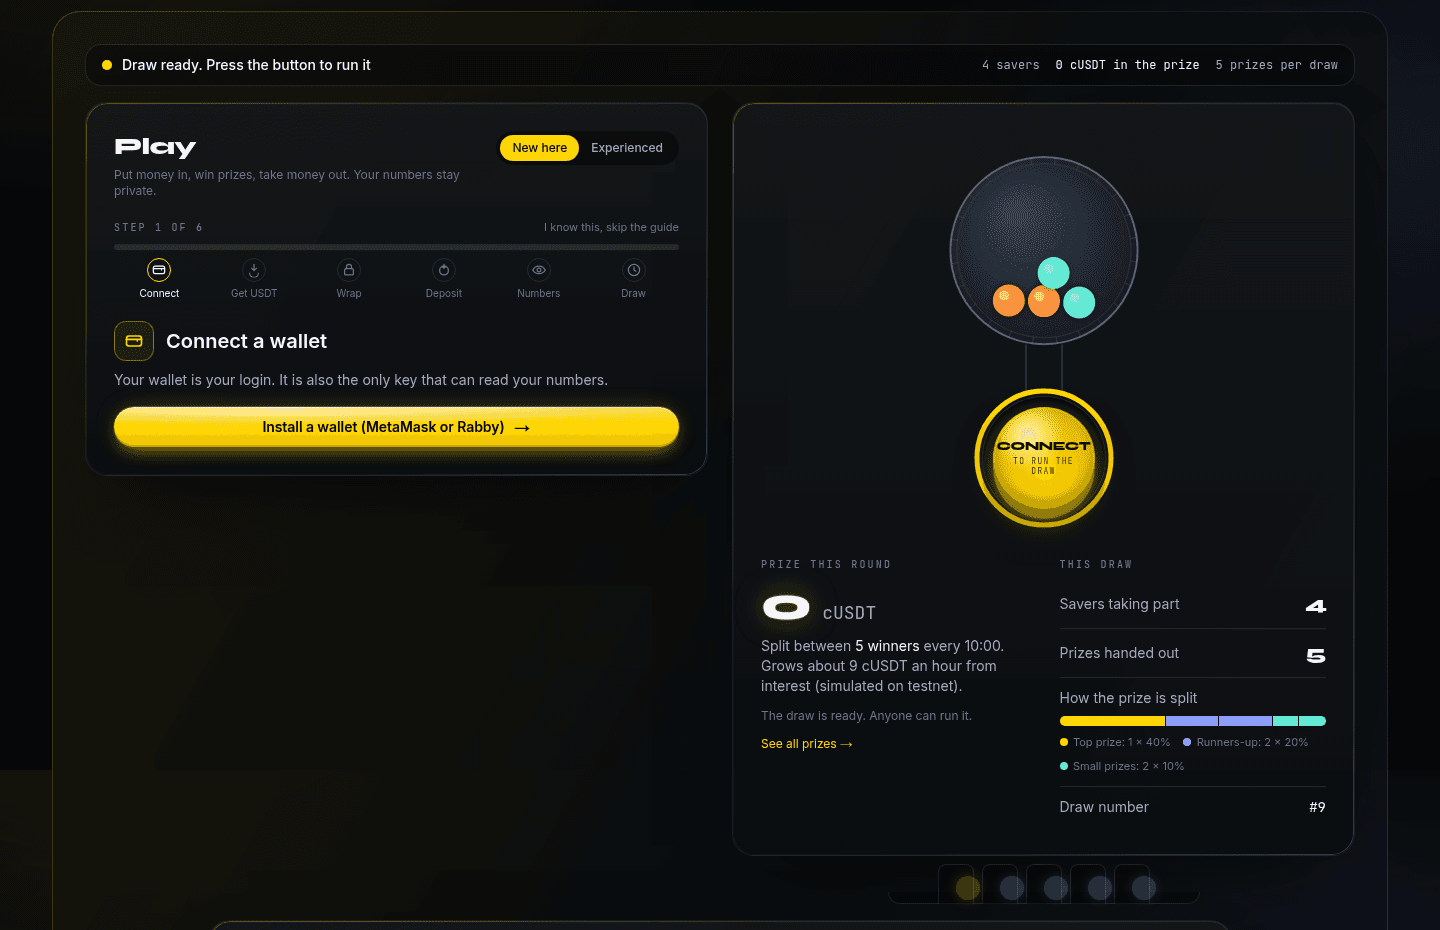
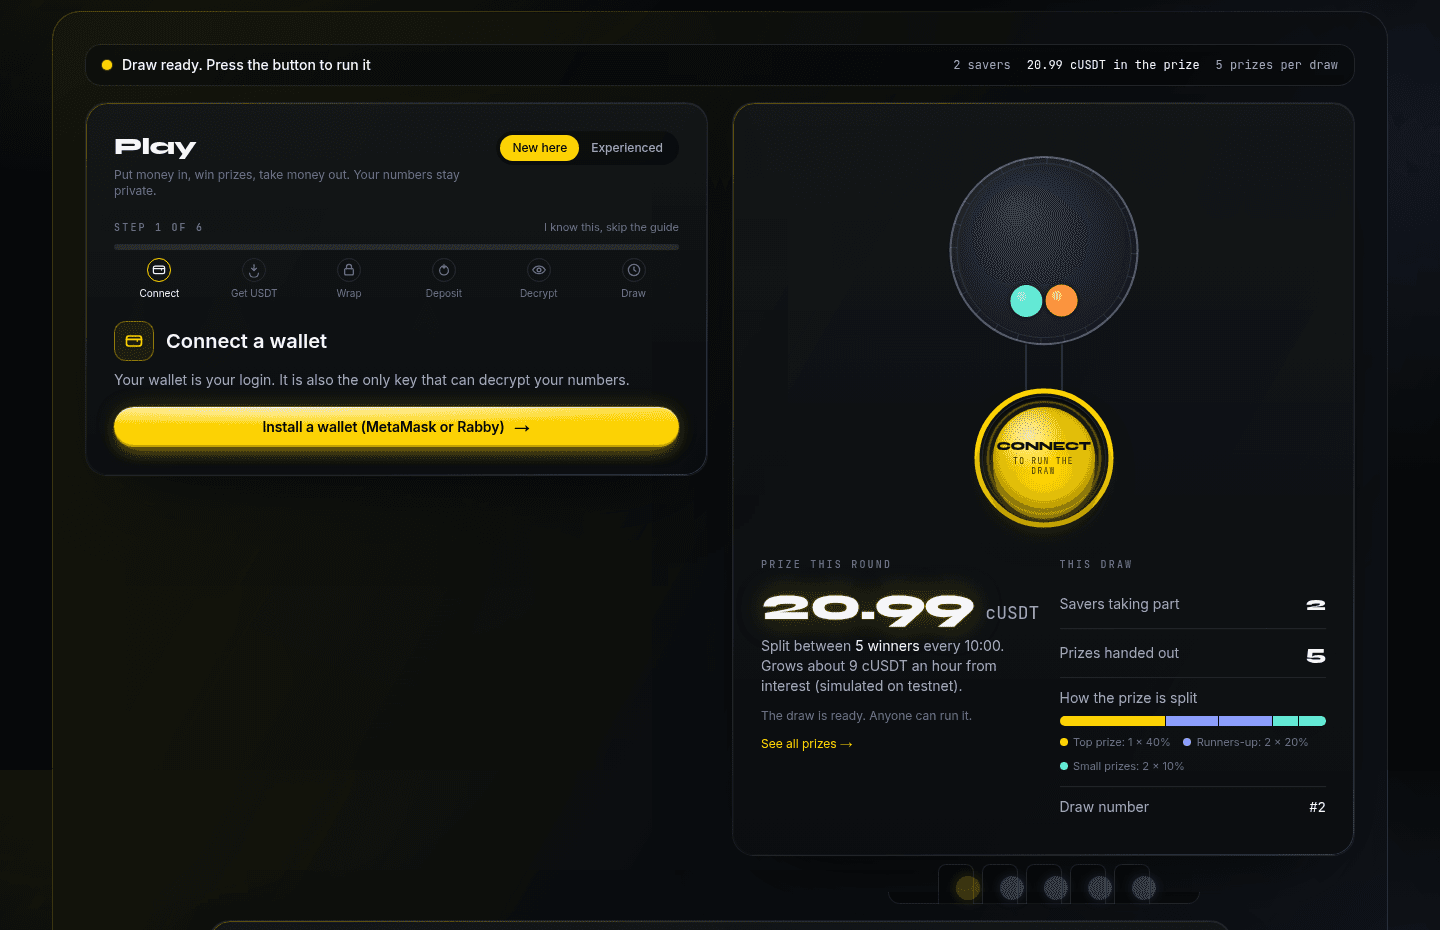
Storyboard and screenshots refreshed for the current pool state

diff --git a/docs/video-storyboard.md b/docs/video-storyboard.md
@@ -5,9 +5,9 @@ Runs 2:58, under the bounty's 3:00 cap. Real person on camera at the start and e
 ## Before you press record
 
 - Browser at 1440 × 900, bookmarks bar hidden, dark theme.
-- One wallet only: the owner `0xB3Bf…7A58`. The pool is brand new (`0x2E91…DeF5`); nobody else is in it.
-- **Prep round first, about 12 minutes:** connect, press Start over in the guide, do Get USDT, Wrap, Put in 300, Decrypt my numbers. When the countdown hits zero, hold the button once (draw #1, you win it all). Do not collect. Press Start over again.
-- Money put in during a round counts from the next round, so the on-camera deposit is not in draw #2. Your prep deposit is. The prize from draw #1 is the guaranteed claim.
+- Rabby on your wallet `0x329e…9B41`. Two savers are in the pool (`0x2E91…DeF5`): you and the deployer `0xB3Bf…7A58`.
+- **Prep is done.** Draw #1 has run and your wallet won it. Leave that prize uncollected until the claim scene. Press Start over in the guide right before recording.
+- Money put in during a round counts from the next round, so the on-camera 300 is not in draw #2. Your earlier deposit is. The draw #1 prize is the guaranteed claim.
 - Start the screen part when the countdown reads about 1:20. The first scenes take ~75 s and land you at the button as it turns yellow. If it already reads RUN DRAW, that is fine too.
 - Tabs open: the app, the pool on Etherscan, the Sourcify page (optional).
 - Keep the whole cut under 3:00 including the camera parts. No speed-ups.
@@ -49,7 +49,7 @@ Runs 2:58, under the bounty's 3:00 cap. Real person on camera at the start and e
    *On screen:* Header shows your identicon. The wizard moves to Step 2.
 2. Press **Get 1,000 test USDT**. Confirm.
    *On screen:* "Minting 1,000 test USDT from Zama's official mock…", then the tick. Step 3 opens by itself.
-3. Press **Wrap 1,000 USDT into cUSDT**. Confirm the approval, then the wrap.
+3. Press **Wrap … USDT into cUSDT**. The button wraps your whole USDT balance. Confirm the approval, then the wrap.
    *On screen:* "Wrapping into cUSDT on Zama FHEVM, your balance becomes encrypted…", then Step 4.
 
 **Say:**
@@ -67,11 +67,11 @@ Runs 2:58, under the bounty's 3:00 cap. Real person on camera at the start and e
 1. Step 4: type **300**, press **Put in 300 cUSDT**. Confirm the one-time approval, then the deposit.
    *On screen:* "Encrypting with Zama's FHE key…", "Sending your encrypted deposit to the pool on Zama FHEVM…", then "Done. Your money is in the pool, scrambled." Coins fly into the sphere. Step 5.
 2. Step 5: press **Decrypt my numbers**. Sign the one message in Rabby.
-   *On screen:* The asterisks unscramble everywhere on the page: savings 600 (300 from the prep round plus this 300). Point at the savings figure.
+   *On screen:* The asterisks unscramble everywhere on the page: your savings (earlier deposit plus this 300), wallet cUSDT, and prizes to collect (the draw #1 prize). Point at the savings figure.
 
 **Say:**
 
-> I put in 300. It's encrypted in my browser before it leaves, so the transaction carries a ciphertext, not a number. To read my pool balance I sign one message. Zama's relayer checks my wallet is allowed, then hands me the figure: 600 in the pool. Nothing on the public chain carries an amount.
+> I put in 300. It's encrypted in my browser before it leaves, so the transaction carries a ciphertext, not a number. To read my pool balance I sign one message. Zama's relayer checks my wallet is allowed, then hands me the figure. There it is. Nothing on the public chain carries an amount.
 
 ---
 
@@ -84,7 +84,7 @@ Runs 2:58, under the bounty's 3:00 cap. Real person on camera at the start and e
 1. Press and **hold** the big button for one second. Confirm "startDraw", then each "advanceDraw" batch as Rabby asks (two or three).
    *On screen:* Drum spins, balls tumble. Status: "Zama's coprocessor is drawing the encrypted random seeds…", then "Selecting the winner over encrypted balances", then "Crediting the prize to the encrypted winner". Prize balls drop into the tray.
 2. Scroll to **Your results**, press **Decrypt: did I win?**
-   *On screen:* You are the only saver, so the reel lands on a prize.
+   *On screen:* Two savers are in this draw, so the reel can land on a prize or on "Not this time". Either is fine: the claim scene uses the draw #1 prize already waiting.
 
 ![Your results: see if you won, odds, next draw, live activity](storyboard/04_results.png)
 
@@ -96,12 +96,12 @@ Runs 2:58, under the bounty's 3:00 cap. Real person on camera at the start and e
 
 ## 1:50 – 2:10 · Screen · Claim a prize
 
-**Shot:** Same wallet. The prize from draw #1 (your prep round) is waiting, plus whatever draw #2 just paid.
+**Shot:** Same wallet. The prize from draw #1 is waiting, plus whatever draw #2 just paid you.
 
 **Do, in order:**
 
 1. After the reel lands, look just above it.
-   *On screen:* A banner: "… cUSDT is waiting for you" with **Collect to wallet**. It holds the draw #1 prize plus this draw's.
+   *On screen:* A banner: "… cUSDT is waiting for you" with **Collect to wallet**. It holds the draw #1 prize plus anything from this draw.
 2. Press **Collect to wallet**. Confirm.
    *On screen:* "Sending your prize by confidential transfer on Zama FHEVM…", then "Collected. Your prize is in your wallet as cUSDT."
 
@@ -118,9 +118,9 @@ Runs 2:58, under the bounty's 3:00 cap. Real person on camera at the start and e
 **Do, in order:**
 
 1. Click **Experienced**. The balance strip is already decrypted from the earlier signature.
-   *On screen:* Savings 600, wallet cUSDT, prizes to collect 0.
+   *On screen:* Savings, wallet cUSDT, prizes to collect now 0.
 2. Tab **Withdraw**: type **100**, press **Withdraw 100 cUSDT**. Confirm.
-   *On screen:* "Withdrawing through Zama FHEVM, amount stays encrypted…", then "Done. It is back in your wallet as cUSDT." Savings drop to 500, wallet goes up by 100.
+   *On screen:* "Withdrawing through Zama FHEVM, amount stays encrypted…", then "Done. It is back in your wallet as cUSDT." Savings drop by 100, wallet goes up by 100.
 
 **Say:**
 
